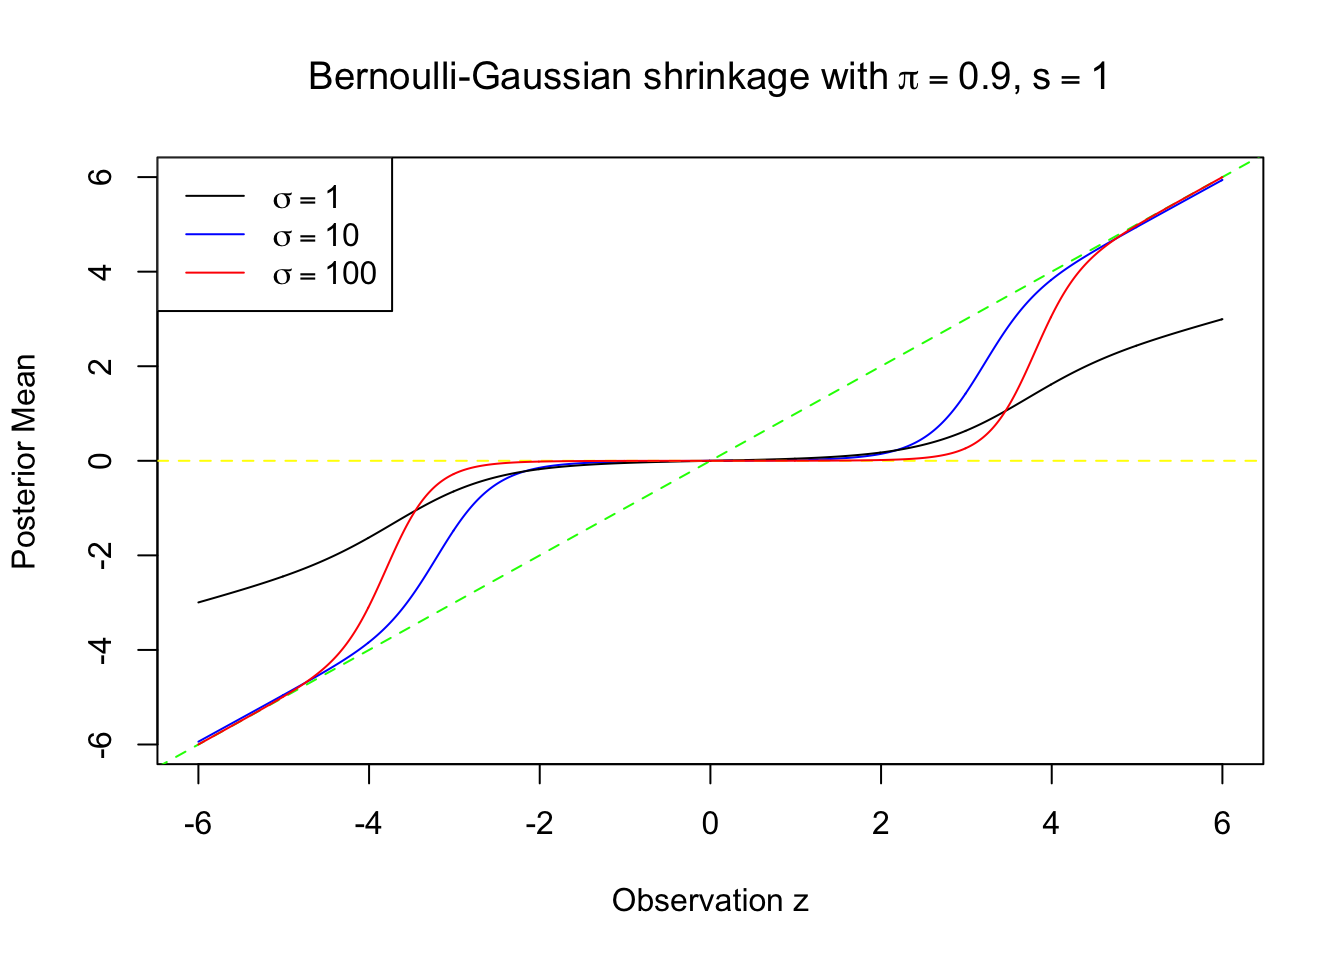
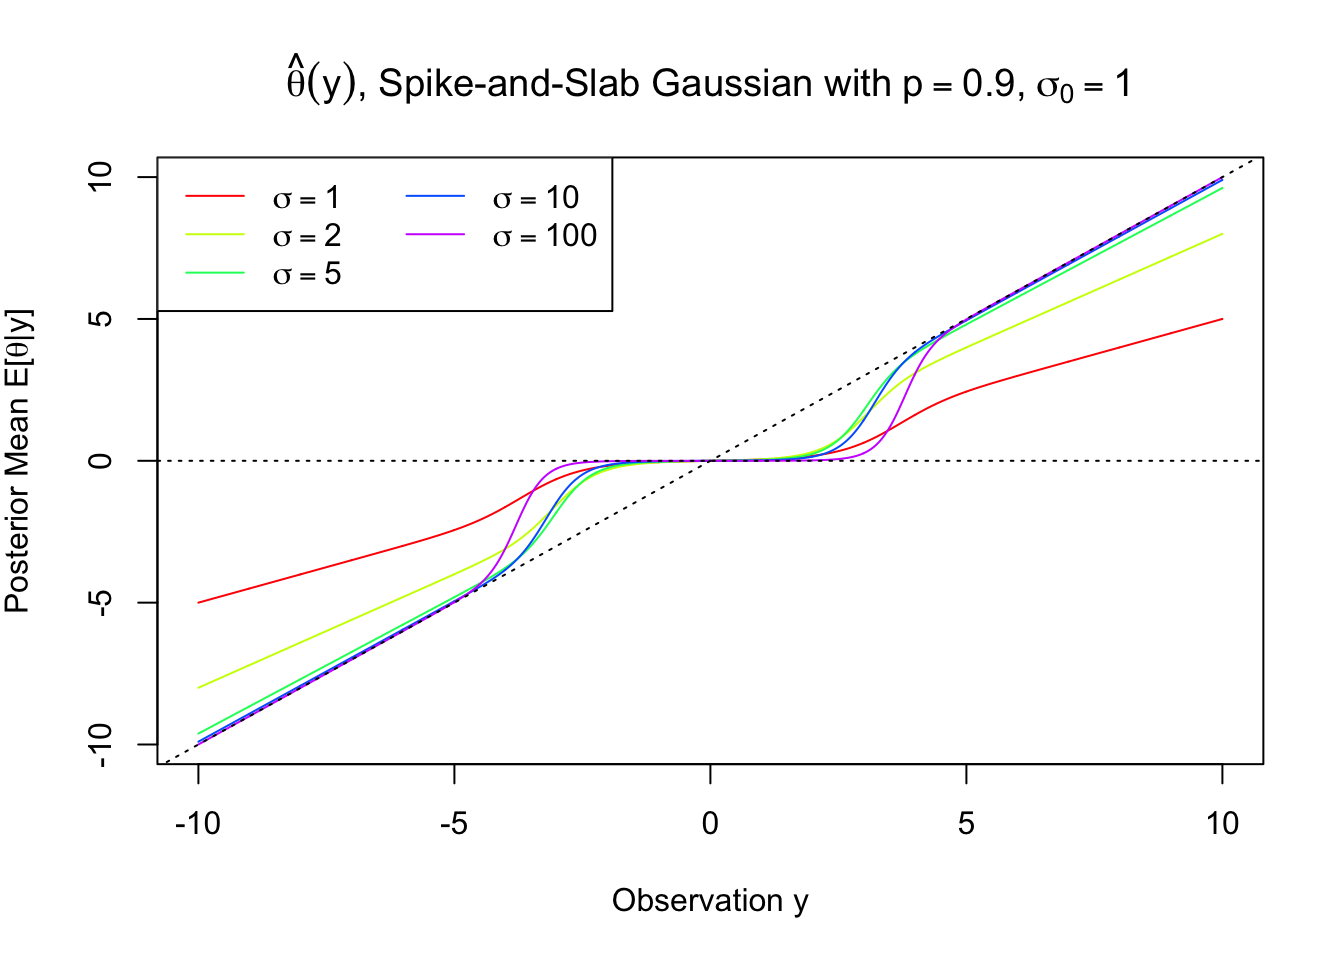
comparison

diff --git a/docs/bernoulli-gaussian.html b/docs/bernoulli-gaussian.html
@@ -309,8 +309,8 @@ div.tocify {
 </div>
 
 
-<p><strong>Last updated:</strong> 2017-03-12</p>
-<p><strong>Code version:</strong> 9db270b</p>
+<p><strong>Last updated:</strong> 2017-03-15</p>
+<p><strong>Code version:</strong> 2076f7e</p>
 <div id="problem" class="section level2">
 <h2>Problem</h2>
 <p>In normal means problem, suppose</p>
@@ -435,20 +435,26 @@ E[\mu | z] = (1 - p) \frac{z\sigma^2}{\sigma^2 + s^2} = \frac{z\sigma^2}{\sigma^
     return(pm)
 }
 
-z = seq(-6, 6, 0.01)
+z = seq(-10, 10, 0.01)
 s = 1
 pi = 0.9
-pm1 = pm(z, s, 1, pi)
-pm2 = pm(z, s, 10, pi)
-pm3 = pm(z, s, 100, pi)
-plot(z, pm2, type = &quot;l&quot;, xlab = &quot;Observation z&quot;, ylab = &quot;Posterior Mean&quot;,
-     col = &quot;blue&quot;, main = bquote(paste(&quot;Bernoulli-Gaussian shrinkage with&quot;, ~pi == .(pi), &quot;,&quot;, ~s == .(s)))
+sigma = c(1, 2, 5, 10, 100)
+pm1 = pm(z, s, sigma[1], pi)
+pm2 = pm(z, s, sigma[2], pi)
+pm3 = pm(z, s, sigma[3], pi)
+pm4 = pm(z, s, sigma[4], pi)
+pm5 = pm(z, s, sigma[5], pi)
+plot(z, pm4, type = &quot;n&quot;, xlab = &quot;Observation y&quot;, ylab = expression(paste(&quot;Posterior Mean E[&quot;, theta,&quot;|y]&quot;)),
+     col = &quot;blue&quot;, main = bquote(paste(hat(theta)(y), &quot;, Spike-and-Slab Gaussian with&quot;, ~p == .(pi), &quot;,&quot;, ~sigma[0] == .(s)))
      )
-lines(z, pm1, col = &quot;black&quot;)
-abline(0, 1, lty = 2, col = &quot;green&quot;)
-abline(h = 0, lty = 2, col = &quot;yellow&quot;)
-lines(z, pm3, col = &quot;red&quot;)
-legend(&quot;topleft&quot;, col = c(&quot;black&quot;, &quot;blue&quot;, &quot;red&quot;), lty = 1, c(expression(sigma == 1), expression(sigma == 10), expression(sigma == 100)))</code></pre>
+lines(z, pm1, col = rainbow(5)[1])
+lines(z, pm2, col = rainbow(5)[2])
+lines(z, pm3, col = rainbow(5)[3])
+lines(z, pm4, col = rainbow(5)[4])
+lines(z, pm5, col = rainbow(5)[5])
+abline(0, 1, lty = 3)
+abline(h = 0, lty = 3)
+legend(&quot;topleft&quot;, col = rainbow(5), lty = 1, c(expression(sigma == 1), expression(sigma == 2), expression(sigma == 5), expression(sigma == 10), expression(sigma == 100)), ncol = 2)</code></pre>
 <p><img src="figure/bernoulli-gaussian.Rmd/unnamed-chunk-1-1.png" width="672" style="display: block; margin: auto;" /></p>
 <p>Note that the posterior mean is never strictly zero unless <span class="math inline">\(z = 0\)</span>, yet as <span class="math inline">\(\sigma\to\infty\)</span>, it behaves more and more like hard-thresholding.</p>
 </div>
@@ -571,8 +577,8 @@ pi = 0.9
 u = seq(-6, 6, 0.01)
 ymax = max(phi(u, s, sigma = 1, pi))
 plot(u, phi(u, s, sigma = 1, pi), type = &quot;n&quot;, ylim = c(0, ymax),
-     xlab = expression(u), ylab = expression(phi(u)),
-     main = bquote(paste(~pi == .(pi), &quot;,&quot;, ~s == .(s)))
+     xlab = expression(theta), ylab = expression(phi(theta)),
+     main = bquote(paste(&quot;Penalty &quot;, phi, &quot;, Spike-and-Slab Gaussian with&quot;, ~p == .(pi), &quot;,&quot;, ~sigma[0] == .(s)))
      )
 nsigma = c(1, 2, 5, 10, 100)
 k = 1
@@ -587,7 +593,7 @@ legend(&quot;top&quot;, col = rainbow(length(nsigma))[1:(k - 1)], lty = 1,
          sigma == 5,
          sigma == 10,
          sigma == 100
-       )
+       ), ncol = 2
        )</code></pre>
 <p><img src="figure/bernoulli-gaussian.Rmd/unnamed-chunk-5-1.png" width="672" style="display: block; margin: auto;" /></p>
 </div>
@@ -696,10 +702,10 @@ attached base packages:
 [1] stats     graphics  grDevices utils     datasets  methods   base     
 
 loaded via a namespace (and not attached):
- [1] backports_1.0.5 magrittr_1.5    rprojroot_1.2   tools_3.3.2    
- [5] htmltools_0.3.5 yaml_2.1.14     Rcpp_0.12.9     stringi_1.1.2  
- [9] rmarkdown_1.3   knitr_1.15.1    git2r_0.18.0    stringr_1.2.0  
-[13] digest_0.6.11   workflowr_0.4.0 evaluate_0.10  </code></pre>
+ [1] backports_1.0.5  magrittr_1.5     rprojroot_1.2    tools_3.3.2     
+ [5] htmltools_0.3.5  yaml_2.1.14      Rcpp_0.12.9      codetools_0.2-15
+ [9] stringi_1.1.2    rmarkdown_1.3    knitr_1.15.1     git2r_0.18.0    
+[13] stringr_1.2.0    digest_0.6.11    workflowr_0.4.0  evaluate_0.10   </code></pre>
 </div>
 
 <hr>

diff --git a/docs/bernoulli-laplace.html b/docs/bernoulli-laplace.html
@@ -313,10 +313,10 @@ div.tocify {
 shared across the workflowr files. -->
 <!-- Update knitr chunk options -->
 <!-- Insert the date the file was last updated -->
-<p><strong>Last updated:</strong> 2017-03-14</p>
+<p><strong>Last updated:</strong> 2017-03-15</p>
 <!-- Insert the code version (Git commit SHA1) if Git repository exists and R
  package git2r is installed -->
-<p><strong>Code version:</strong> d618500</p>
+<p><strong>Code version:</strong> 2076f7e</p>
 <!-- Add your analysis here -->
 <div id="problem" class="section level2">
 <h2>Problem</h2>
@@ -513,10 +513,10 @@ attached base packages:
 [1] stats     graphics  grDevices utils     datasets  methods   base     
 
 loaded via a namespace (and not attached):
- [1] backports_1.0.5 magrittr_1.5    rprojroot_1.2   tools_3.3.2    
- [5] htmltools_0.3.5 yaml_2.1.14     Rcpp_0.12.9     stringi_1.1.2  
- [9] rmarkdown_1.3   knitr_1.15.1    git2r_0.18.0    stringr_1.2.0  
-[13] digest_0.6.11   evaluate_0.10  </code></pre>
+ [1] backports_1.0.5  magrittr_1.5     rprojroot_1.2    tools_3.3.2     
+ [5] htmltools_0.3.5  yaml_2.1.14      Rcpp_0.12.9      codetools_0.2-15
+ [9] stringi_1.1.2    rmarkdown_1.3    knitr_1.15.1     git2r_0.18.0    
+[13] stringr_1.2.0    digest_0.6.11    evaluate_0.10   </code></pre>
 </div>
 
 <hr>
